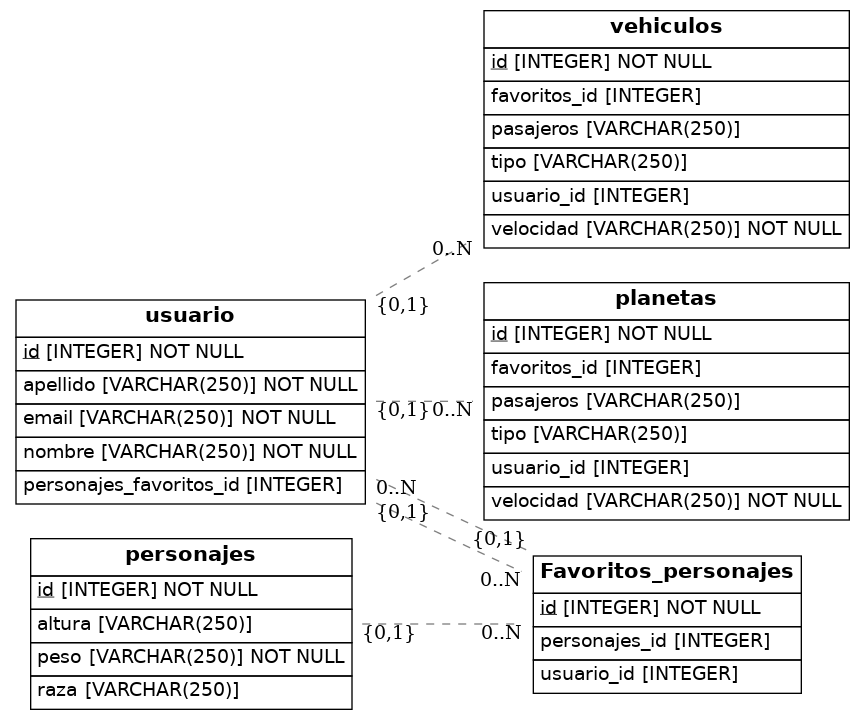
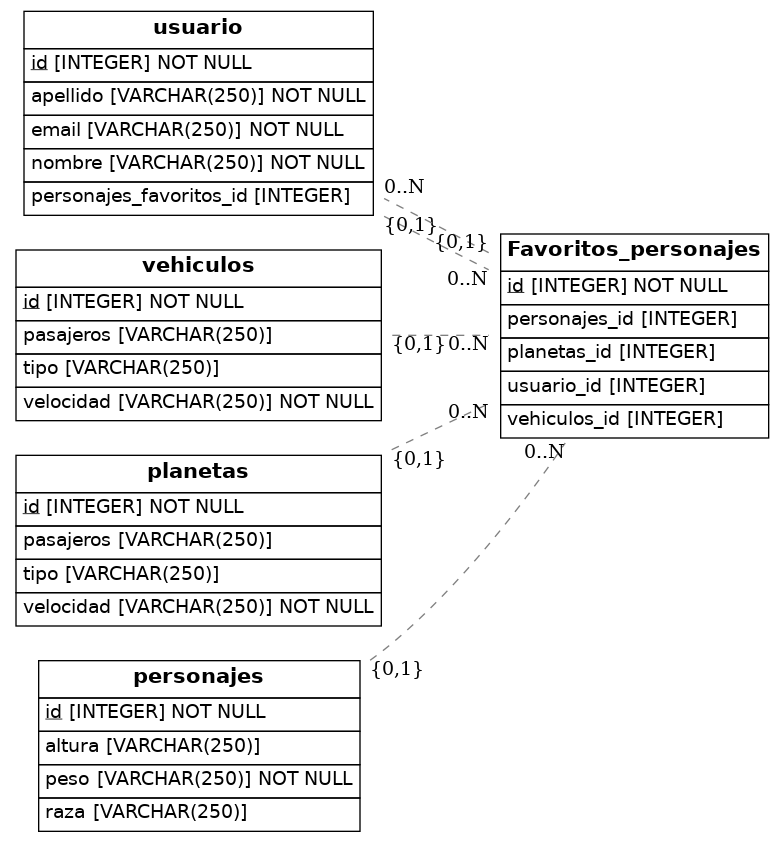
modified:   diagram.png 	modified:   src/models.py

diff --git a/src/models.py b/src/models.py
@@ -33,8 +33,6 @@ class Vehiculos(Base):
     tipo = Column(String(250))
     pasajeros = Column(String(250))
     velocidad = Column(String(250), nullable=False)
-    usuario_id = Column(Integer, ForeignKey('usuario.id'))
-    favoritos_id = Column(Integer, ForeignKey('favoritos.id'))
 
 class Planetas(Base):
     __tablename__ = 'planetas'
@@ -44,8 +42,7 @@ class Planetas(Base):
     tipo = Column(String(250))
     pasajeros = Column(String(250))
     velocidad = Column(String(250), nullable=False)
-    usuario_id = Column(Integer, ForeignKey('usuario.id'))
-    favoritos_id = Column(Integer, ForeignKey('favoritos.id'))
+    
 
 class Personajes(Base):
     __tablename__ = 'personajes'
@@ -63,8 +60,12 @@ class Favoritos_personajes(Base):
     id = Column(Integer, primary_key=True)
     personajes_id = Column(Integer, ForeignKey('personajes.id'))
     usuario_id = Column(Integer, ForeignKey('usuario.id'))
+    planetas_id = Column(Integer, ForeignKey('planetas.id'))
+    vehiculos_id = Column(Integer, ForeignKey("vehiculos"))
     personajes = relationship(Personajes)
     usuario = relationship(Usuario)
+    planetas = relationship(Planetas)
+    vehiculos = relationship(Vehiculos)
 
 
     
